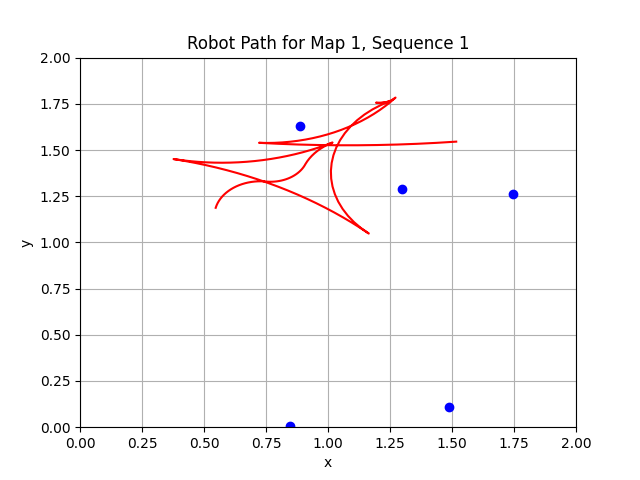
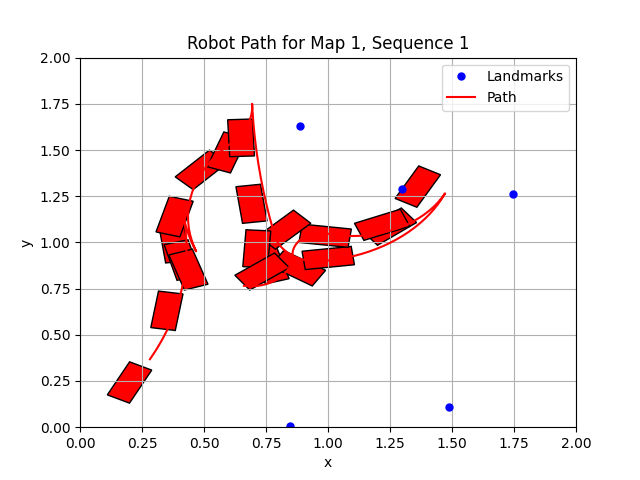
Added simulate.py

diff --git a/controls.py b/controls.py
@@ -1,6 +1,7 @@
 import numpy as np
 import os
 import matplotlib.pyplot as plt
+import matplotlib.patches as patches
 
 
 def read_landmark_map(map_id):
@@ -44,7 +45,6 @@ def is_valid_control_sequence(sequence, initial_pose, scene_width, scene_height)
 
 
 def save_control_sequence(initial_pose, control_sequence, map_id, seq_id):
-    # Add a placeholder column for theta in the control sequence
     theta_placeholder = np.zeros((control_sequence.shape[0], 1))
     control_sequence_with_placeholder = np.hstack([control_sequence, theta_placeholder])
 
@@ -58,29 +58,40 @@ def save_control_sequence(initial_pose, control_sequence, map_id, seq_id):
     np.save(filename, full_sequence)
 
 
-def plot_robot_path(landmarks, initial_pose, control_sequence, map_id, seq_id, scene_width, scene_height):
+def draw_robot(ax, pose, L=0.2, W=0.1):
+    # Draws the robot as a rectangle on the plot
+    x, y, theta = pose
+    robot = patches.Rectangle((x - L/2, y - W/2), L, W, angle=np.rad2deg(theta), fill=True, color='red', ec='black')
+    ax.add_patch(robot)
+
+
+def plot_robot_path(landmarks, initial_pose, control_sequence, map_id, seq_id, scene_width, scene_height, draw_interval=10):
+    fig, ax = plt.subplots()
+    ax.plot(landmarks[:, 0], landmarks[:, 1], 'bo', markersize=5, label='Landmarks')
     x, y, theta = initial_pose
     dt = 0.1
-
-    plt.figure()
-    plt.plot(landmarks[:, 0], landmarks[:, 1], 'bo')
     path = [initial_pose[:2]]
 
-    for v, w in control_sequence:
+    for i, (v, w) in enumerate(control_sequence):
         theta += w * dt
+        theta = (theta + np.pi) % (2 * np.pi) - np.pi  # Normalize theta
         x += v * np.cos(theta) * dt
         y += v * np.sin(theta) * dt
         path.append([x, y])
 
-    path = np.array(path)
-    plt.plot(path[:, 0], path[:, 1], 'r-')
+        if i % draw_interval == 0:
+            draw_robot(ax, (x, y, theta), L=0.2, W=0.1)  # Draw the robot at reduced intervals
 
-    plt.xlim(0, scene_width)
-    plt.ylim(0, scene_height)
-    plt.title(f"Robot Path for Map {map_id}, Sequence {seq_id}")
-    plt.xlabel('x')
-    plt.ylabel('y')
-    plt.grid(True)
+    path = np.array(path)
+    ax.plot(path[:, 0], path[:, 1], 'r-', label='Path')
+
+    ax.set_xlim(0, scene_width)
+    ax.set_ylim(0, scene_height)
+    ax.set_title(f"Robot Path for Map {map_id}, Sequence {seq_id}")
+    ax.set_xlabel('x')
+    ax.set_ylabel('y')
+    ax.grid(True)
+    ax.legend()
     plt.savefig(f"controls/path_{map_id}_{seq_id}.png")
     plt.close()
 

diff --git a/simulate.py b/simulate.py
@@ -1,0 +1,64 @@
+import numpy as np
+import os
+
+# Constants and noise parameters for odometry
+DT = 0.1  # time step
+WHEELBASE = 0.2  # wheelbase of the robot
+ODOMETRY_NOISE_STD_LOW = {'linear': 0.05, 'angular': 0.1}
+ODOMETRY_NOISE_STD_HIGH = {'linear': 0.1, 'angular': 0.3}
+
+
+def add_noise(v, w, noise_std):
+    # Add Gaussian noise to the velocities if they are not zero
+    v_noisy = np.random.normal(v, noise_std['linear']) if v != 0 else 0
+    w_noisy = np.random.normal(w, noise_std['angular']) if w != 0 else 0
+    return v_noisy, w_noisy
+
+
+def simulate_motion(pose, v, w, dt):
+    """Update the robot's pose using the differential drive model."""
+    x, y, theta = pose
+
+    # Kinematic model for differential drive robot
+    theta_new = theta + w * dt
+    # Normalize theta to be within [-pi, pi)
+    theta_new = (theta_new + np.pi) % (2 * np.pi) - np.pi
+
+    # Forward motion
+    x_new = x + (v * np.cos(theta)) * dt
+    y_new = y + (v * np.sin(theta)) * dt
+
+    return np.array([x_new, y_new, theta_new])
+
+
+def generate_odometry_readings(control_sequence, noise_std):
+    """Generate noisy odometry readings for the given control sequence."""
+    noisy_readings = []
+    for v, w in control_sequence:
+        # Apply noise to the control sequence
+        v_noisy, w_noisy = add_noise(v, w, noise_std)
+        noisy_readings.append([v_noisy, w_noisy])
+
+    return np.array(noisy_readings)
+
+
+def main():
+    # Make sure required directories exist
+    if not os.path.exists('readings'):
+        os.makedirs('readings')
+
+    # Loop over control sequence files
+    for map_id in range(5):  # Assuming 5 maps
+        for seq_id in [1, 2]:  # Two sequences per map
+            # Load control sequence
+            control_sequence = np.load(f'controls/controls_{map_id}_{seq_id}.npy')
+            # Simulate motion and generate odometry readings for low noise
+            odometry_readings_low = generate_odometry_readings(control_sequence, ODOMETRY_NOISE_STD_LOW)
+            np.save(f'readings/readings_{map_id}_{seq_id}_L.npy', odometry_readings_low)
+            # Simulate motion and generate odometry readings for high noise
+            odometry_readings_high = generate_odometry_readings(control_sequence, ODOMETRY_NOISE_STD_HIGH)
+            np.save(f'readings/readings_{map_id}_{seq_id}_H.npy', odometry_readings_high)
+
+
+if __name__ == '__main__':
+    main()
